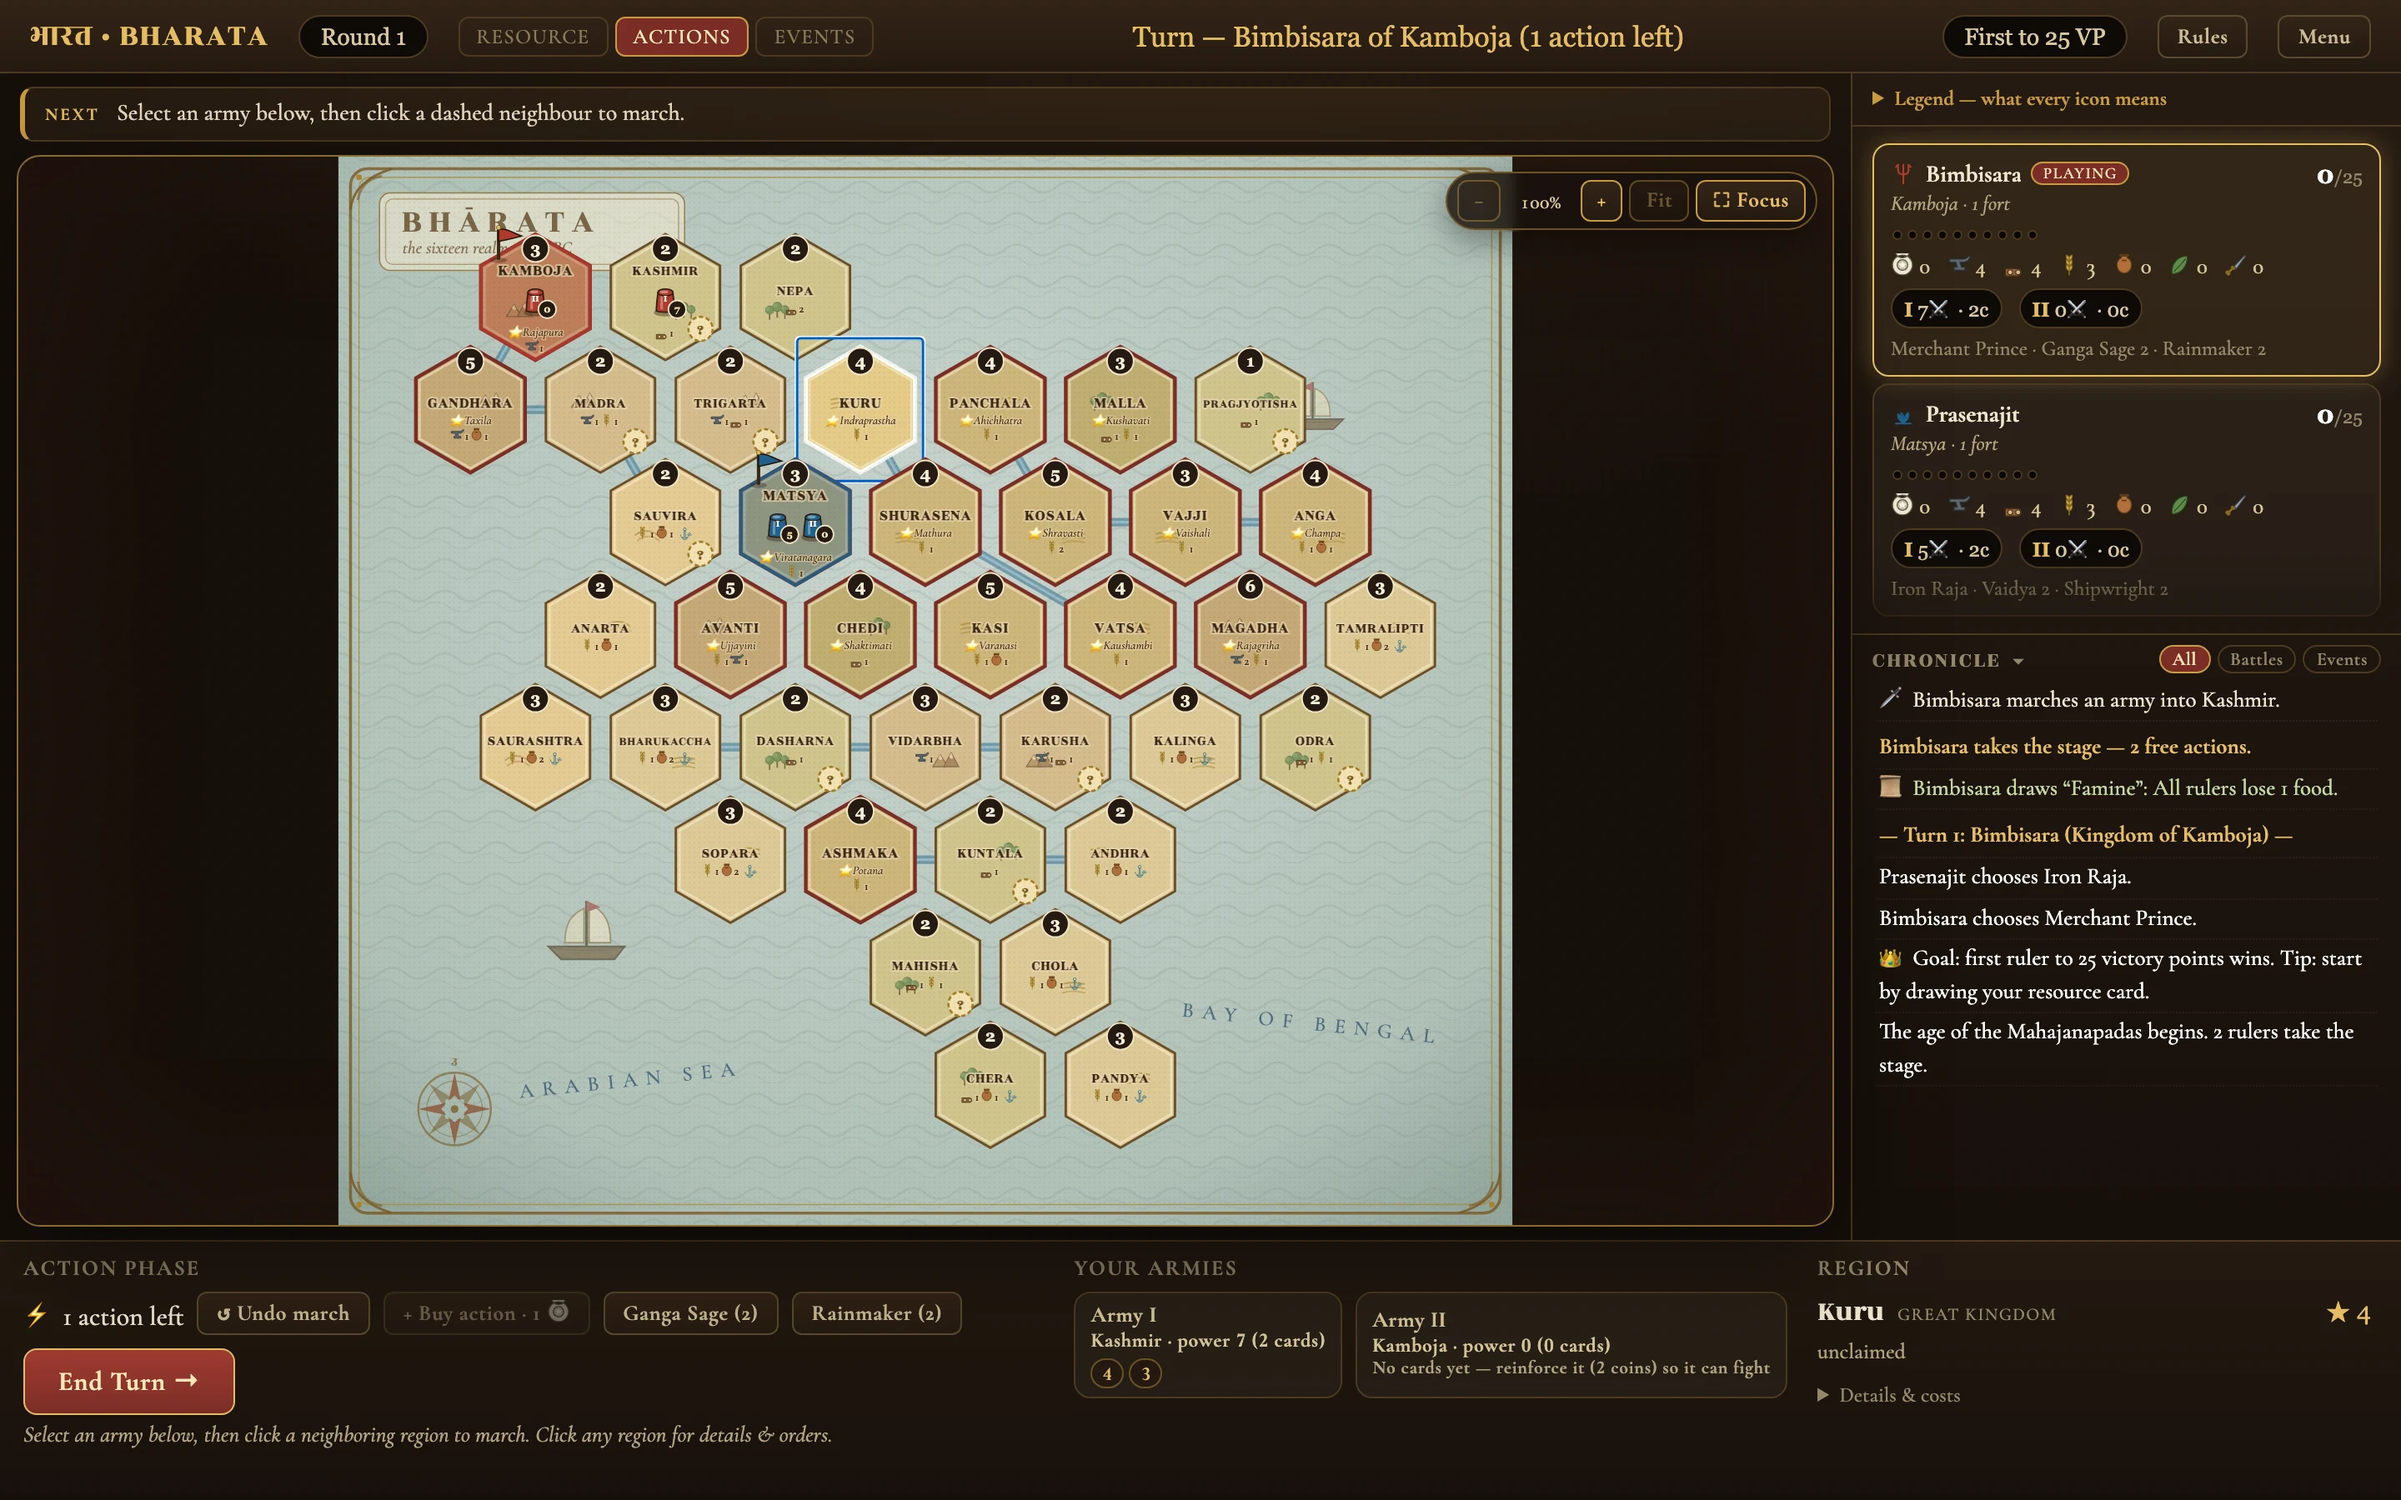
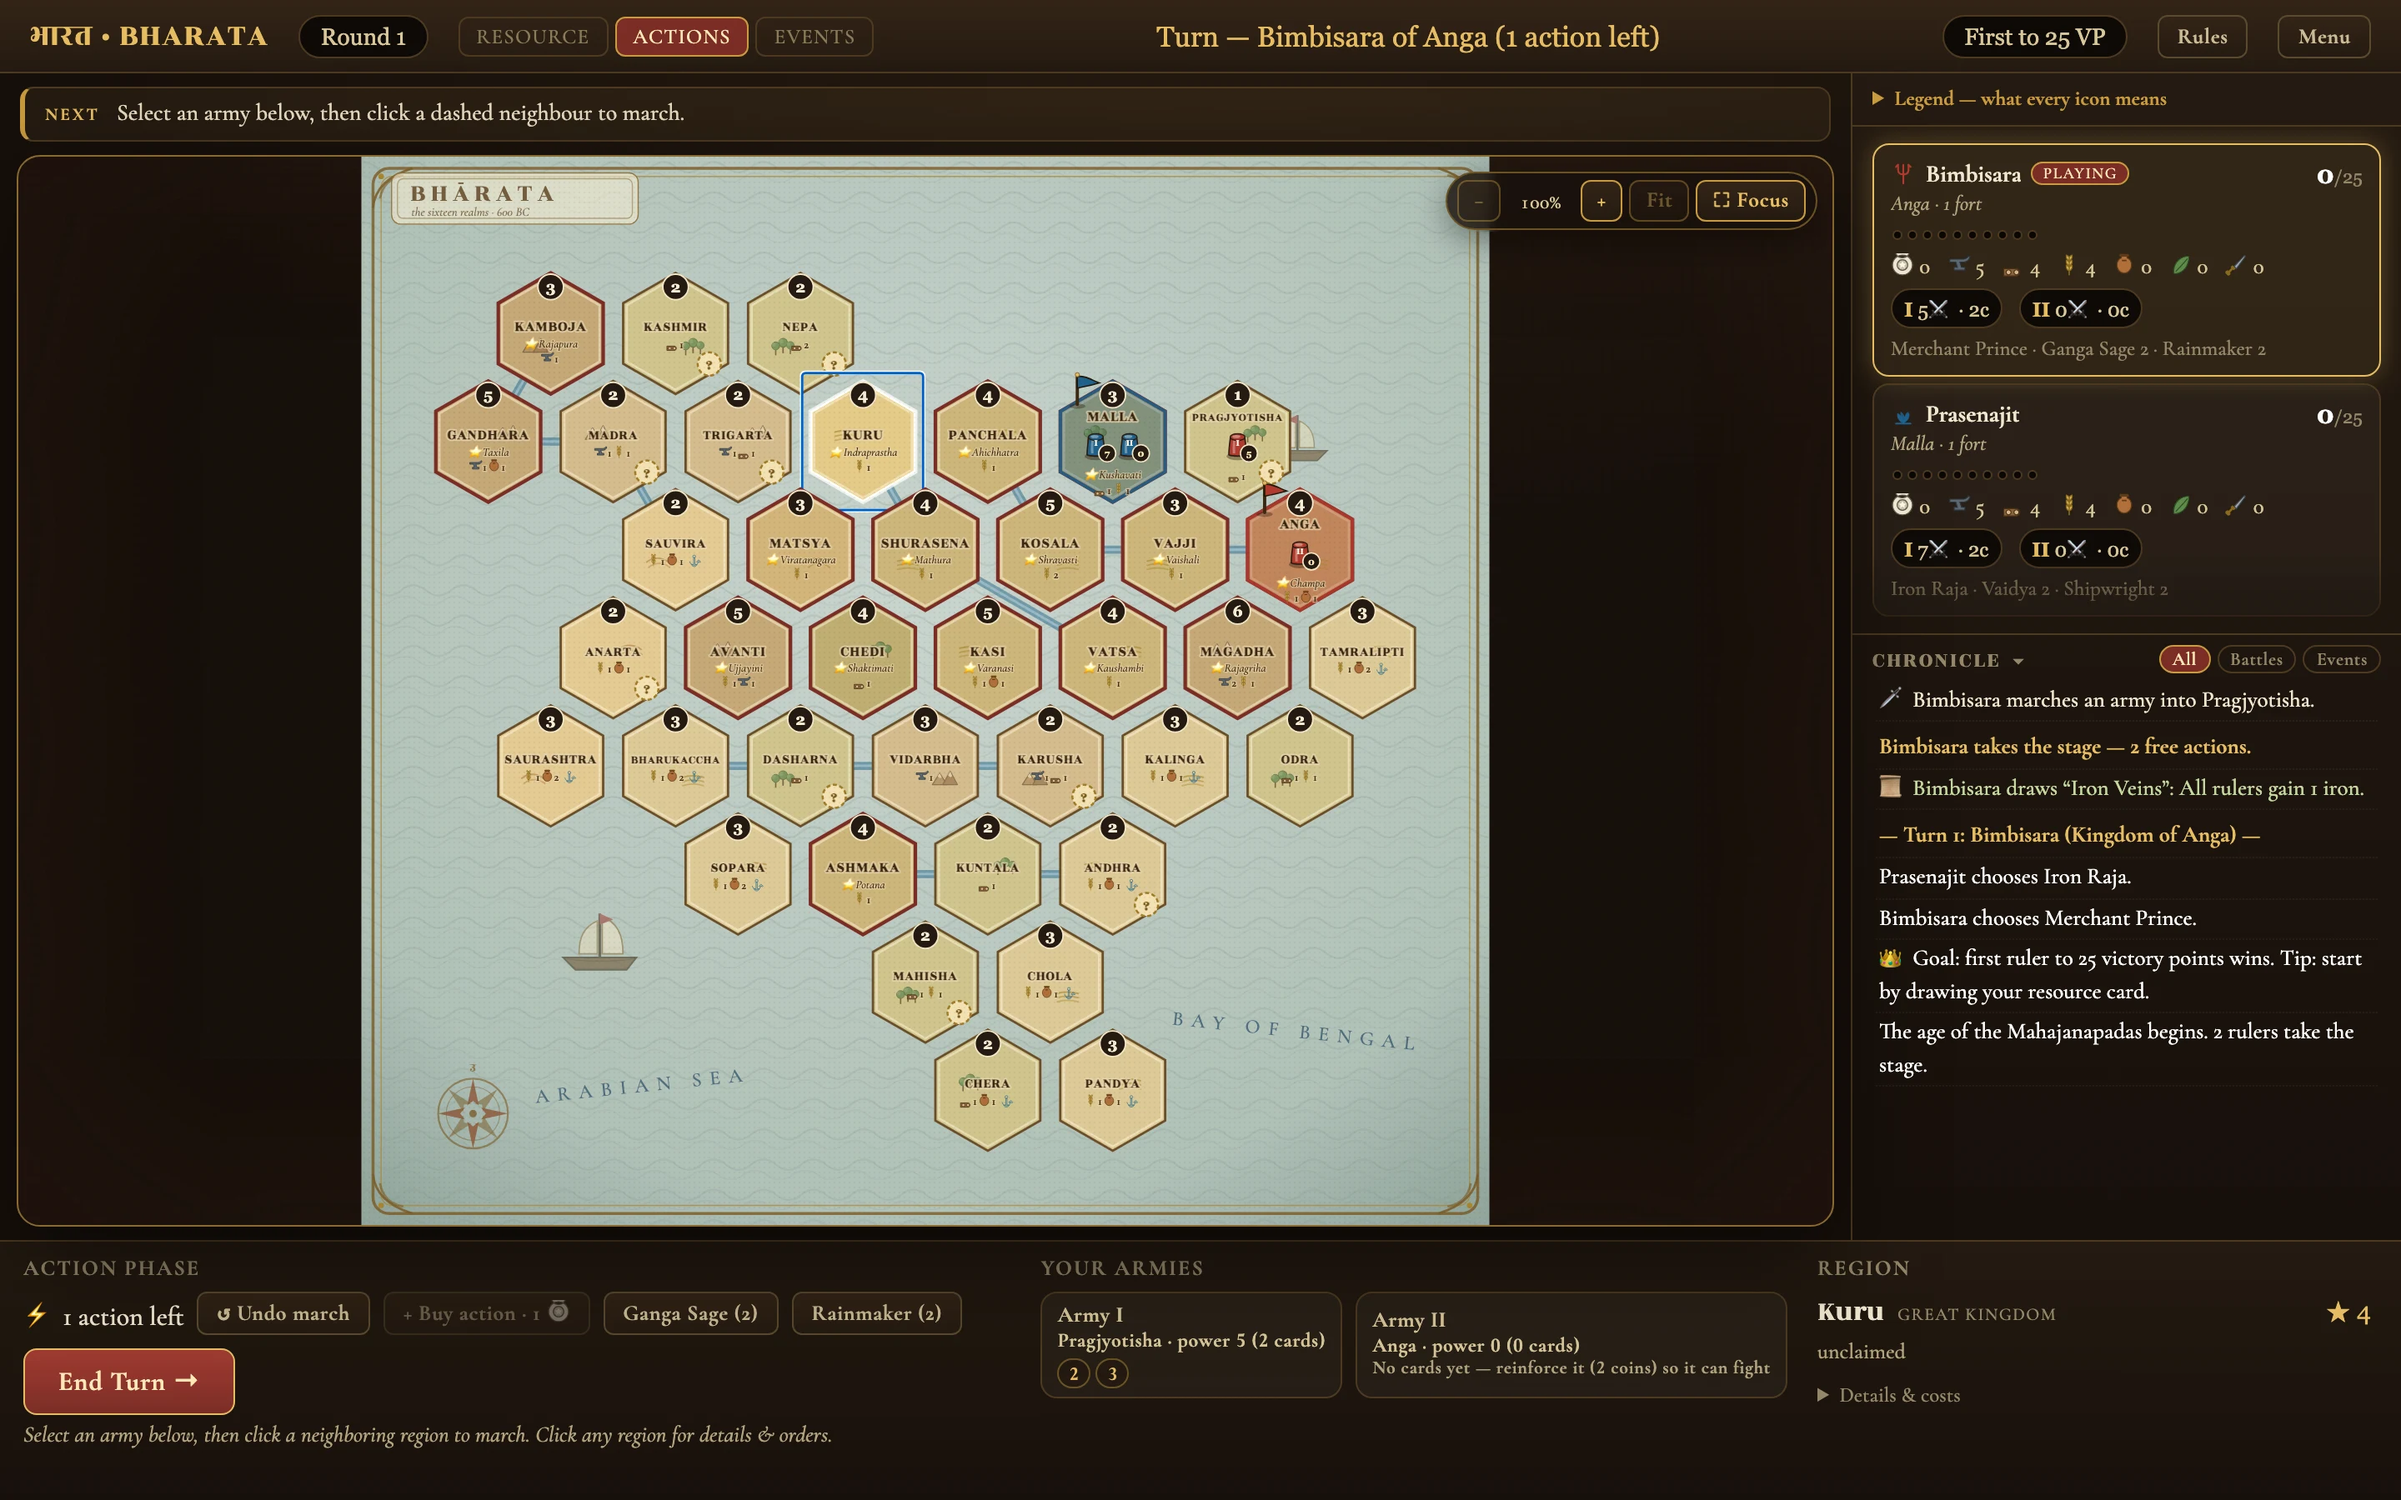
fix(board): keep the title cartouche clear of the northern hexes
- reserve a slim title band above the map (padTop 100)
- compact 212x44 atlas label instead of the 64px block
- re-anchor the top-right ship; clean selection ring from the hero capture
- regenerate screenshots

Closes #31

diff --git a/client/ui/Board.tsx b/client/ui/Board.tsx
@@ -34,7 +34,14 @@ export const Board = React.memo(function Board(props: {
       }
     }
     const pad = 64
-    return { x: minX - pad, y: minY - pad, w: maxX - minX + pad * 2, h: maxY - minY + pad * 2 }
+    // a slim title band above the northern hexes (compact cartouche)
+    const padTop = 100
+    return {
+      x: minX - pad,
+      y: minY - padTop,
+      w: maxX - minX + pad * 2,
+      h: maxY - minY + padTop + pad,
+    }
   }, [])
 
   const [box, setBox] = useState<Box>(fit)
@@ -299,14 +306,14 @@ export const Board = React.memo(function Board(props: {
         ))}
       </g>
 
-      {/* title cartouche */}
+      {/* compact title cartouche, clear of the northern hexes */}
       <g pointerEvents="none">
-        <rect x={minX + 34} y={minY + 30} width={252} height={64} rx={9} fill="#f7ecd2" fillOpacity="0.55" stroke="#8a6a30" strokeOpacity="0.8" />
-        <rect x={minX + 39} y={minY + 35} width={242} height={54} rx={6} fill="none" stroke="#7a5a24" strokeOpacity="0.45" />
-        <text x={minX + 52} y={minY + 62} fontFamily="Rozha One, serif" fontSize="28" fontWeight="400" fill="rgba(90,62,28,0.75)" letterSpacing="6">
+        <rect x={minX + 26} y={minY + 14} width={212} height={44} rx={8} fill="#f7ecd2" fillOpacity="0.6" stroke="#8a6a30" strokeOpacity="0.85" />
+        <rect x={minX + 31} y={minY + 19} width={202} height={34} rx={5} fill="none" stroke="#7a5a24" strokeOpacity="0.45" />
+        <text x={minX + 42} y={minY + 38} fontFamily="Rozha One, serif" fontSize="22" fontWeight="400" fill="rgba(90,62,28,0.8)" letterSpacing="4.5">
           BHĀRATA
         </text>
-        <text x={minX + 53} y={minY + 80} fontFamily="Cormorant Garamond, serif" fontStyle="italic" fontSize="14.5" fill="rgba(90,62,28,0.7)">
+        <text x={minX + 43} y={minY + 51} fontFamily="Cormorant Garamond, serif" fontStyle="italic" fontSize="10.5" fill="rgba(90,62,28,0.72)">
           the sixteen realms · 600 BC
         </text>
       </g>
@@ -326,7 +333,7 @@ export const Board = React.memo(function Board(props: {
         </text>
       </g>
       <Ship x={minX + 205} y={maxY - 245} scale={1.05} />
-      <Ship x={maxX - 165} y={minY + 205} scale={0.85} flip />
+      <Ship x={maxX - 165} y={minY + 241} scale={0.85} flip />
       <text x={minX + 150} y={maxY - 105} fontFamily="Cormorant Garamond, serif" fontSize={17} fill="rgba(38,74,102,0.7)" letterSpacing="7" transform={`rotate(-6 ${minX + 150} ${maxY - 105})`}>
         ARABIAN SEA
       </text>

diff --git a/scripts/artifacts.ts b/scripts/artifacts.ts
@@ -135,6 +135,8 @@ async function main() {
   await menu.locator('g.region').nth(6).click()
   await menu.waitForTimeout(350)
   await save(menu, 'region')
+  await menu.keyboard.press('Escape') // clear the selected-region ring for a clean hero
+  await menu.waitForTimeout(300)
 
   // ---------- focus (clean hero board) ----------
   await menu.getByRole('button', { name: /full board/i }).click()
